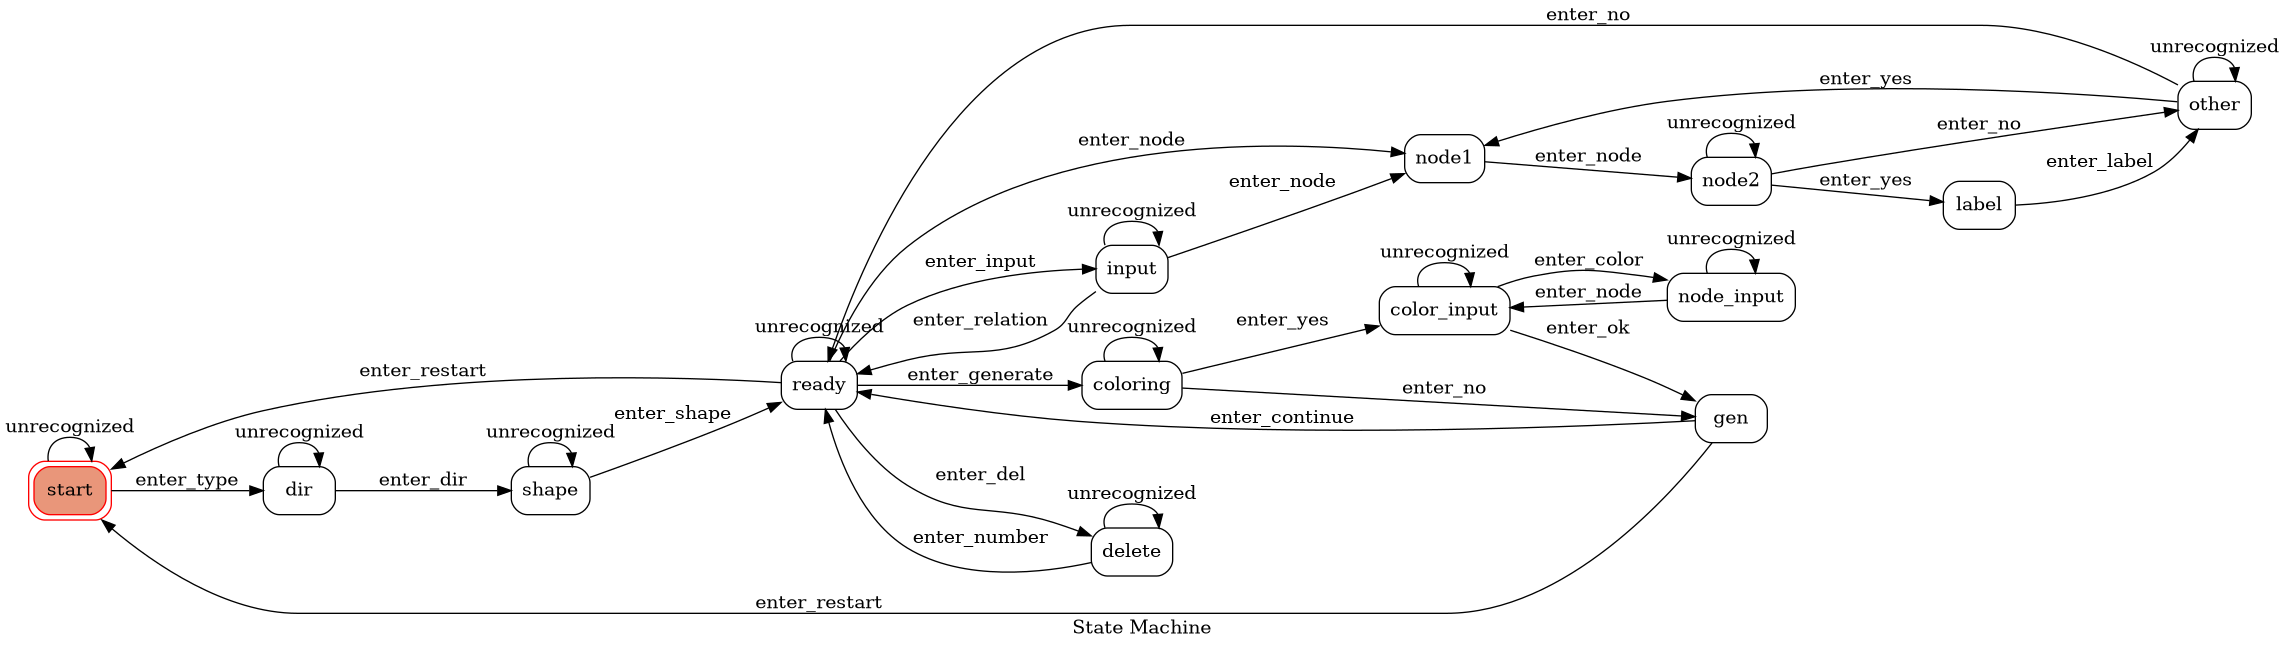
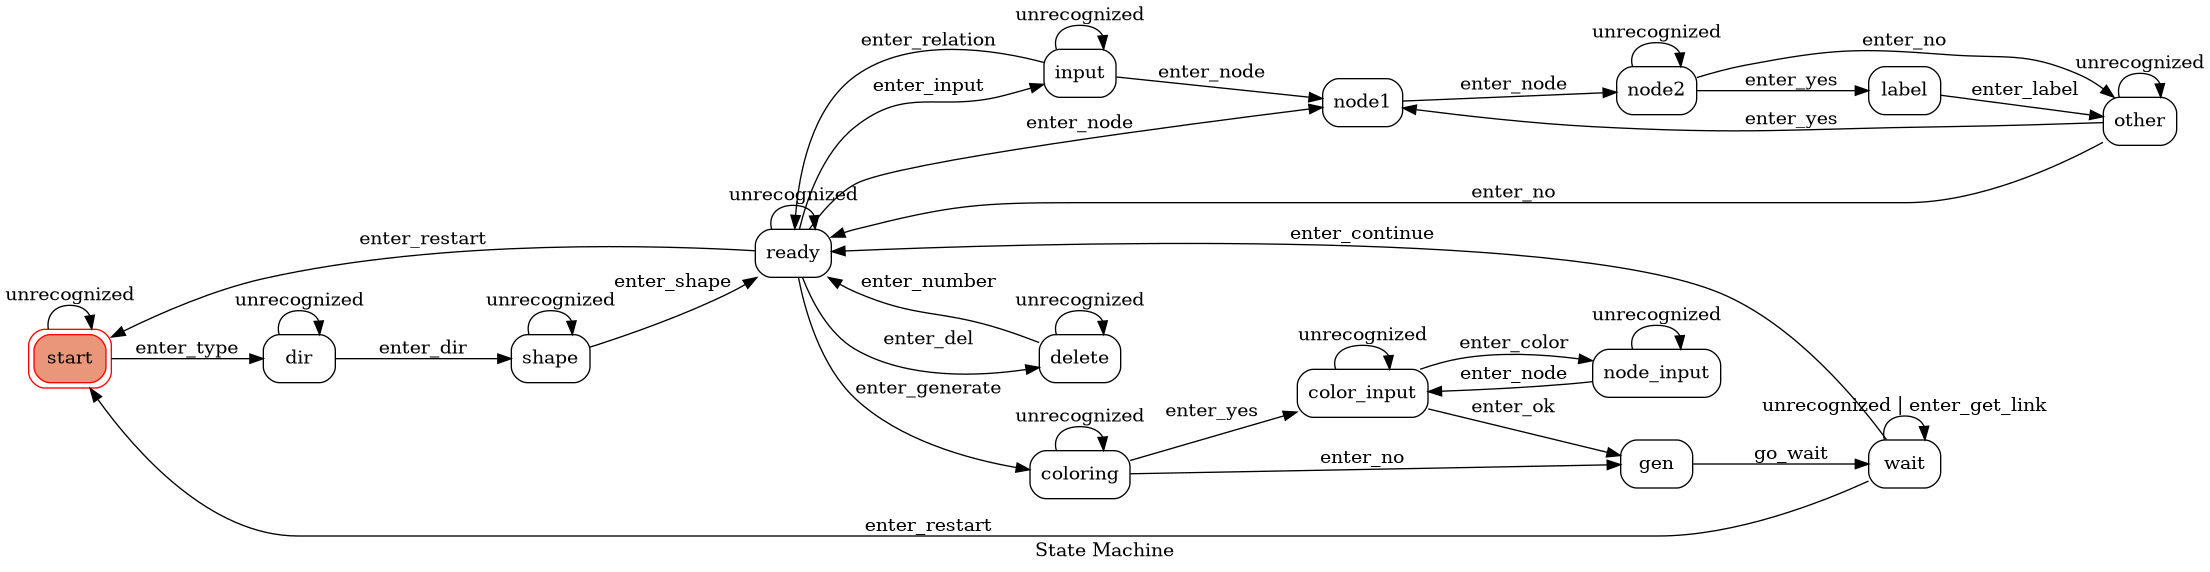
Add support for getting link of graph image

diff --git a/drawapp/machine.py b/drawapp/machine.py
@@ -11,7 +11,6 @@ from linebot.models import  (
 
 from graphviz import Graph, Digraph
 import pyimgur
-import os
 
 line_bot_api = LineBotApi(settings.LINE_CHANNEL_ACCESS_TOKEN)
 parser = WebhookParser(settings.LINE_CHANNEL_SECRET)
@@ -69,6 +68,9 @@ class RobotMachine(object):
             }, {
                 "name": "gen",
                 "on_enter": self._on_enter_gen
+            }, {
+                "name": "wait",
+                "on_enter": self._on_enter_wait
             }
         ]
         self.user_id = user_id
@@ -112,8 +114,11 @@ class RobotMachine(object):
         self.machine.add_transition("unrecognized",   "color_input", "color_input")
         self.machine.add_transition("enter_node",     "node_input", "color_input")
         self.machine.add_transition("unrecognized",   "node_input", "node_input")
-        self.machine.add_transition("enter_continue", "gen",   "ready")
-        self.machine.add_transition("enter_restart",  "gen",   "start")
+        self.machine.add_transition("go_wait",        "gen", "wait")
+        self.machine.add_transition("enter_continue", "wait", "ready")
+        self.machine.add_transition("enter_get_link", "wait", "wait")
+        self.machine.add_transition("enter_restart",  "wait", "start")
+        self.machine.add_transition("unrecognized",   "wait", "wait")
 
         self.reply_token = ""
         self.graph_type = ""
@@ -470,16 +475,20 @@ class RobotMachine(object):
         graph.render(self.user_id, view=False, directory='dot-output')
         print("render successfully")
 
-        im = pyimgur.Imgur(settings.IMGUR_CLIENT_ID)
         path = "dot-output/" + self.user_id + ".png"
+        im = pyimgur.Imgur(settings.IMGUR_CLIENT_ID)
         uploaded_image = im.upload_image(path)
+        self.upload_link = uploaded_image.link
         self.message_q.append(
             ImageSendMessage(
                 original_content_url=uploaded_image.link,
                 preview_image_url=uploaded_image.link
             )
         )
+        self.go_wait()
 
+    def _on_enter_wait(self):
+        print("enter wait")
         self.message_q.append(
             TemplateSendMessage(
                 alt_text="What's next?",
@@ -487,6 +496,10 @@ class RobotMachine(object):
                     title='Next step',
                     text="What's next?",
                     actions=[
+                        MessageTemplateAction(
+                            label='Get image link',
+                            text='get link'
+                        ),
                         MessageTemplateAction(
                             label='Continue',
                             text='continue'

diff --git a/drawapp/views.py b/drawapp/views.py
@@ -9,10 +9,7 @@ from linebot.models import  (
     MessageEvent,
     JoinEvent,
     FollowEvent,
-    TextSendMessage,
-    TemplateSendMessage,
-    ButtonsTemplate,
-    MessageTemplateAction
+    TextSendMessage
 ) 
 
 from drawapp.machine import RobotMachine
@@ -106,9 +103,9 @@ def callback(request):
             elif (user_map[user_id].is_node_input()):
                 # node input state, choose nodes
                 node_input_transition(event, user_id)
-            elif (user_map[user_id].is_gen()):
+            elif (user_map[user_id].is_wait()):
                 # generate graph state, input continue or not
-                gen_transition(event, user_id)
+                wait_transition(event, user_id)
                     
         return HttpResponse()
     else:
@@ -316,10 +313,16 @@ def node_input_transition(event, user_id):
     user_map[user_id].enter_node()
 
 
-def gen_transition(event, user_id):
+def wait_transition(event, user_id):
     if (event.message.text.lower() == "continue"):
         user_map[user_id].enter_continue()
         return
+    elif (event.message.text.lower() == "get link"):
+        message = user_map[user_id].upload_link
+        user_map[user_id].message_q.append(
+                TextSendMessage(text=message)
+        )
+        user_map[user_id].enter_get_link() 
     elif (event.message.text.lower() == "restart"):
         user_map[user_id].enter_restart()
         user_map[user_id].graph_type = ""
@@ -331,23 +334,4 @@ def gen_transition(event, user_id):
         user_map[user_id].message_q.append(
                 TextSendMessage(text=message, emojis=cross_emoji)
         )
-        user_map[user_id].message_q.append(
-                TemplateSendMessage(
-                    alt_text="What's next?",
-                    template=ButtonsTemplate(
-                        title='Types',
-                        text="What's next?",
-                        actions=[
-                            MessageTemplateAction(
-                                label='Continue',
-                                text='continue'
-                            ),
-                            MessageTemplateAction(
-                                label='Restart',
-                                text='restart'
-                            )
-                        ]
-                    )
-                )
-            )
-        user_map[user_id].line_bot_reply()
+        user_map[user_id].unrecognized()
